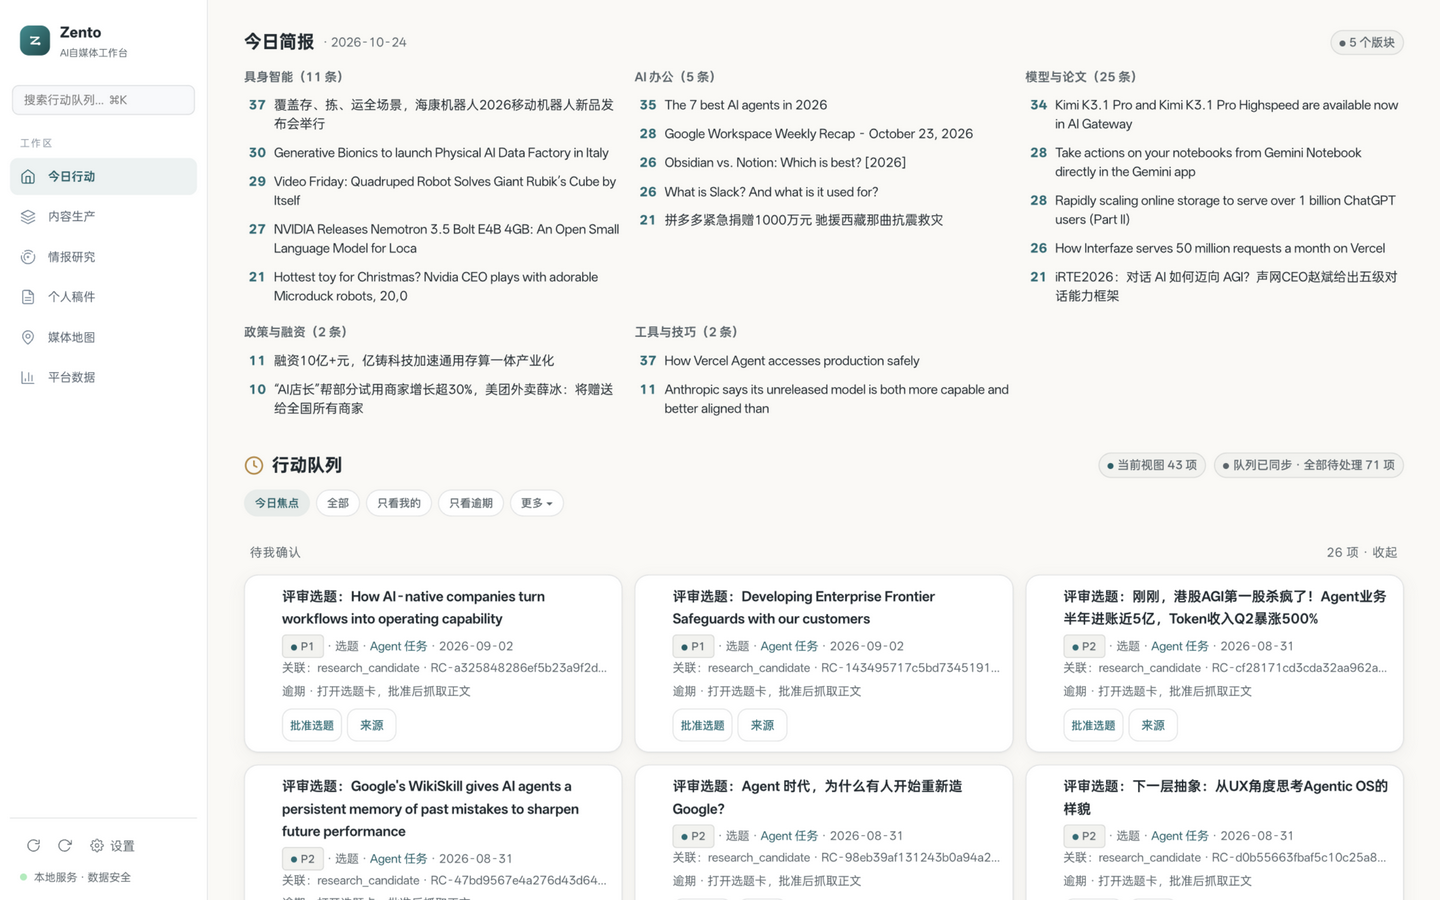
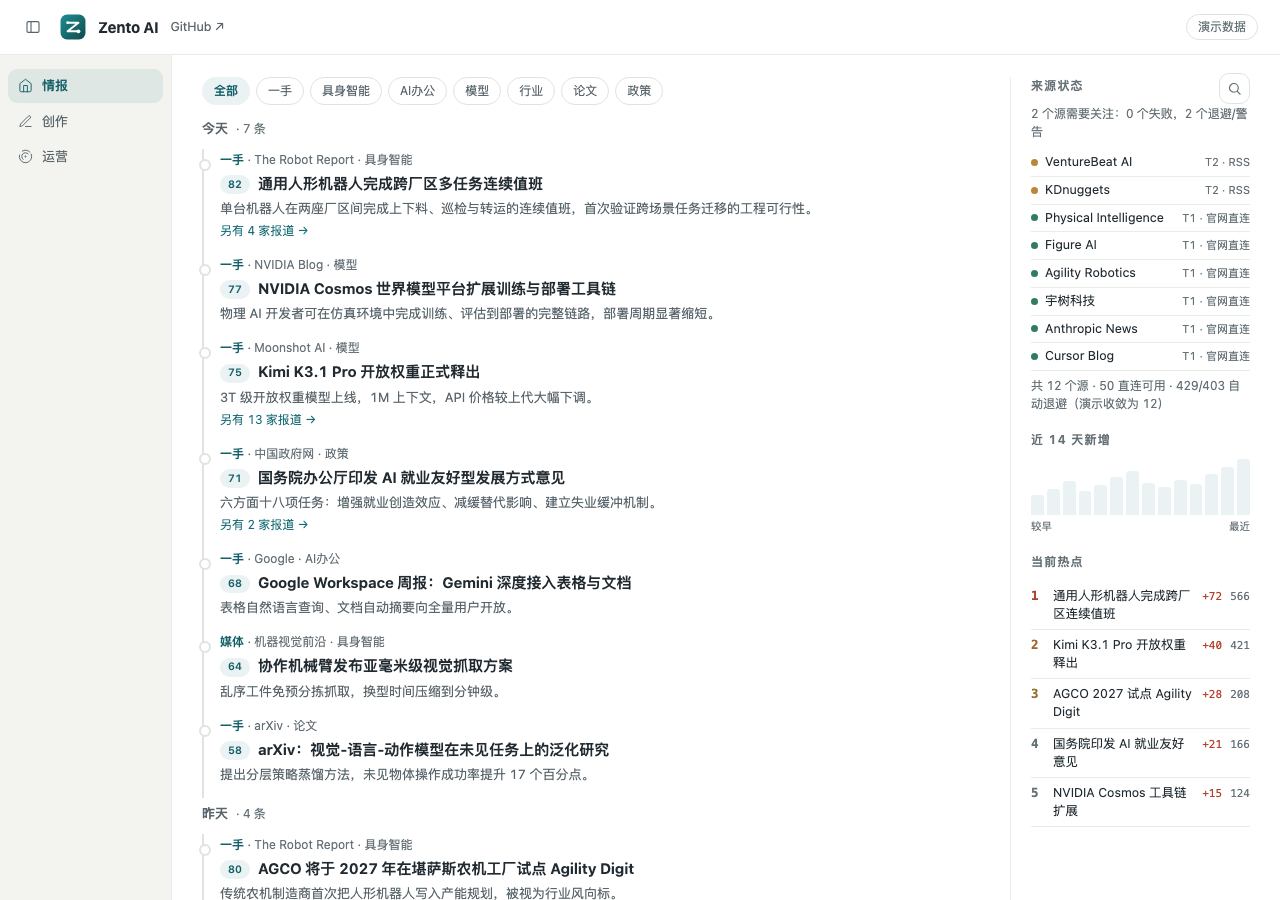
P3 demo 对齐冲刺：情报/运营两栏补齐 + 门禁 409 可玩 + 证据链弹层 + 换截图
- 情报栏：新增来源状态卡（健康点 + 需关注优先 + 分级标注，镜像真实
  情报页）与近 14 天新增趋势条；与既有分类 pills/同题聚合/热点榜
  构成完整 AIHOT 式 IA
- 运营栏：新增往期稿件区（mock 双平台汇总/阅读排序/复盘归因入口）
  + 媒体合作入口 + 导入平台数据按钮；CK 面板文案同步改「运营」
- 创作栏：排版步新增「无证据点发布 → 看 409」可玩切片（模拟真实
  POST /transition 的 409 响应与门禁详情——本项目最硬工程叙事的
  可触摸版）；订单卡「详情 · 证据链」从 toast 升级为真弹层
  （阶段轨迹/事实声明/缺证据标记/快照/门禁四项）
- 截图换新：旧 shot-home.png 是三栏重构前的六导航 UI，重截当前
  首页（1280 宽，系统字体 headless 截图）
- 实测：桌面 1280 + 移动 390 双视口零横向溢出、零控制台错误；
  源状态/趋势/稿件区/409 切片/证据链弹层全部渲染并通过交互

diff --git a/index.html b/index.html
@@ -77,6 +77,11 @@ a{color:var(--accent-ink)}
 .co-platform{font-size:11.5px;border:1px solid var(--line);border-radius:999px;padding:1px 8px;color:var(--ink-3)}
 .co-platform.done{border-color:transparent;background:rgba(47,125,92,.1);color:var(--success)}
 .co-actions{margin-top:10px;display:flex;gap:8px;flex-wrap:wrap}
+.co-dialog{border:1px solid var(--line);border-radius:16px;padding:20px 22px;max-width:560px;width:calc(100vw - 48px);box-shadow:0 12px 48px rgba(32,42,48,.18)}
+.co-dialog::backdrop{background:rgba(32,42,48,.32)}
+.co-claim{display:flex;justify-content:space-between;gap:12px;align-items:baseline;padding:7px 0;border-bottom:1px solid var(--line-soft);font-size:12.5px;line-height:1.5}
+.co-claim:last-child{border:none}
+.co-claim .ev{white-space:nowrap;font-size:12px;color:var(--accent-ink)}
 /* 卡片（队列/内容单/候选 统一质感）*/
 .qgrid{display:grid;grid-template-columns:repeat(auto-fill,minmax(330px,1fr));gap:10px}
 .qcard,.cand{background:var(--surface);border:1px solid var(--line-soft);border-radius:12px;padding:12px 16px;box-shadow:none;transition:all .16s ease-out;cursor:pointer}
@@ -140,6 +145,16 @@ dialog::backdrop{background:rgba(32,42,48,.35)}
 .fcluster{font-size:12px;color:var(--accent);margin-top:4px}
 .hotside{border-left:1px solid var(--line-soft);padding-left:20px}
 .hot-title{font-size:12px;font-weight:650;color:var(--ink-4);letter-spacing:.1em;margin-bottom:10px}
+.fmeta{font-size:12px;color:var(--ink-4)}
+.srcrow{display:flex;align-items:center;gap:7px;padding:4px 0;font-size:12.5px;border-bottom:1px solid var(--line-soft)}
+.srcrow:last-child{border:none}
+.srcrow .dot{width:7px;height:7px;border-radius:50%;flex:none}
+.srcrow .nm{flex:1;white-space:nowrap;overflow:hidden;text-overflow:ellipsis}
+.srcrow .st{font-size:11px;color:var(--ink-4);font-variant-numeric:tabular-nums}
+.bars{display:flex;align-items:flex-end;gap:3px;height:56px}
+.bars .bar{flex:1;background:var(--accent-soft);border-radius:3px 3px 0 0;position:relative;min-height:3px}
+.bars .bar:hover{background:var(--accent)}
+.legend{display:flex;justify-content:space-between;font-size:10.5px;color:var(--ink-4);margin-top:4px}
 .hrow{display:flex;gap:8px;align-items:baseline;padding:6px 0;border-bottom:1px solid var(--line-soft);font-size:12.5px;line-height:1.45}
 .hrow b{font-family:ui-monospace,Menlo,monospace;flex:none;width:14px}
 .hrow span{flex:1;color:var(--ink-2)}
@@ -217,7 +232,13 @@ kbd{border:1px solid var(--line);border-radius:5px;padding:0 5px;font-size:11px;
           <div id="feed"></div>
         </div>
         <aside class="hotside">
-          <div class="hot-title">当前热点</div>
+          <div class="hot-title">来源状态</div>
+          <div class="fmeta" style="margin-bottom:8px" id="srcHealthHint"></div>
+          <div id="srcList"></div>
+          <div class="hot-title" style="margin-top:18px">近 14 天新增</div>
+          <div class="bars" id="trendBars"></div>
+          <div class="legend"><span>较早</span><span>最近</span></div>
+          <div class="hot-title" style="margin-top:18px">当前热点</div>
           <div id="hotrank"></div>
         </aside>
       </div>
@@ -234,6 +255,17 @@ kbd{border:1px solid var(--line);border-radius:5px;padding:0 5px;font-size:11px;
       <div id="studio"></div>
     </section>
     <section class="view" id="v-intel">
+      <div class="vtitle" style="display:flex;justify-content:space-between;align-items:baseline;gap:12px;flex-wrap:wrap">
+        <span>往期稿件 <span style="font-weight:400;font-size:12.5px;color:var(--ink-4)">公众号 · 小红书 · 按阅读排序 · 复盘归因的数据底座</span></span>
+        <button class="btn" onclick="toast('演示：导入平台导出 CSV → 影子预览 → 确认写入')">导入平台数据</button>
+      </div>
+      <div class="pills" id="artPlats"></div>
+      <div id="artTotals" style="display:flex;gap:10px;margin-bottom:12px;flex-wrap:wrap"></div>
+      <div id="artList" style="display:grid;gap:8px;margin-bottom:26px"></div>
+      <div class="vtitle" style="display:flex;justify-content:space-between;align-items:baseline;gap:12px;flex-wrap:wrap">
+        <span>平台数据仪表盘</span>
+        <button class="btn" onclick="toast('演示：媒体合作与报价监测在真实系统的 media 页')">媒体合作 ↗</button>
+      </div>
       <div class="pills" id="platChips"></div>
       <div class="stats3" id="platStats"></div>
       <div class="card" style="padding:14px 16px;margin-bottom:12px"><svg id="spark" viewBox="0 0 560 120" style="width:100%;height:120px"></svg></div>
@@ -257,7 +289,7 @@ kbd{border:1px solid var(--line);border-radius:5px;padding:0 5px;font-size:11px;
 
 <script>
 /* ═══ 演示数据 ═══ */
-const NAVS = [['情报','home','v-home'],['创作','orders','v-orders'],['数据','intel','v-intel']];
+const NAVS = [['情报','home','v-home'],['创作','orders','v-orders'],['运营','intel','v-intel']];
 const esc = s => String(s ?? '').replace(/[&<>"]/g, c => ({'&':'&amp;','<':'&lt;','>':'&gt;','"':'&quot;'}[c]));
 const ICONS = {home:'<path d="m3 9 9-7 9 7v11a2 2 0 0 1-2 2H5a2 2 0 0 1-2-2z"/><polyline points="9 22 9 12 15 12 15 22"/>',
   orders:'<path d="M12 20h9"/><path d="M16.5 3.5a2.1 2.1 0 0 1 3 3L7 19l-4 1 1-4Z"/>',
@@ -359,8 +391,37 @@ function go(v, btn){
   document.querySelectorAll('.view').forEach(x => x.classList.toggle('on', x.id === v));
   document.querySelectorAll('.nav button').forEach(b => b.classList.toggle('on', b === btn));
   if (v === 'v-orders') { renderCoPipeline(); renderCoOrders(); renderStudio(); }
-  if (v === 'v-intel') renderPlat();
+  if (v === 'v-intel') { renderArticles(); renderPlat(); }
   toggleSide(false);
+}
+/* —— 情报栏：来源状态 + 14 天趋势（对齐真实情报页 IA，mock 数据）—— */
+const DEMO_SOURCES = [
+  ['Physical Intelligence', 'T1 · 官网直连', 'ok'], ['Figure AI', 'T1 · 官网直连', 'ok'],
+  ['Agility Robotics', 'T1 · 官网直连', 'ok'], ['宇树科技', 'T1 · 官网直连', 'ok'],
+  ['Anthropic News', 'T1 · 官网直连', 'ok'], ['Cursor Blog', 'T1 · 官网直连', 'ok'],
+  ['LangChain Blog', 'T1 · 官网直连', 'ok'], ['Cohere Blog', 'T1 · 官网直连', 'ok'],
+  ['The Robot Report', 'T2 · RSS', 'ok'], ['arXiv robotics', 'T1 · RSS', 'ok'],
+  ['VentureBeat AI', 'T2 · RSS', 'warn'], ['KDnuggets', 'T2 · RSS', 'warn'],
+];
+function renderSrcHealth(){
+  const hint = document.getElementById('srcHealthHint');
+  const list = document.getElementById('srcList');
+  if (!hint || !list) return;
+  const warn = DEMO_SOURCES.filter(s => s[2] !== 'ok');
+  hint.textContent = warn.length
+    ? `${warn.length} 个源需要关注：${DEMO_SOURCES.filter(s => s[2] === 'failed').length} 个失败，${warn.length} 个退避/警告`
+    : '当前启用源均无解析警告';
+  const shown = warn.concat(DEMO_SOURCES.filter(s => s[2] === 'ok')).slice(0, 8);
+  list.innerHTML = shown.map(([nm, tier, st]) =>
+    `<div class="srcrow"><span class="dot" style="background:${st === 'ok' ? 'var(--success)' : st === 'warn' ? 'var(--warning)' : 'var(--danger)'}"></span><span class="nm">${nm}</span><span class="st">${tier}</span></div>`).join('')
+    + `<div class="fmeta" style="padding:6px 0 0">共 12 个源 · 50 直连可用 · 429/403 自动退避（演示收敛为 12）</div>`;
+}
+function renderTrendBars(){
+  const el = document.getElementById('trendBars');
+  if (!el) return;
+  const counts = [18, 24, 31, 22, 28, 35, 41, 30, 26, 33, 29, 38, 44, 52];
+  const max = Math.max(...counts);
+  el.innerHTML = counts.map(c => `<div class="bar" style="height:${Math.max(3, Math.round(c / max * 100))}%" title="${c} 条"></div>`).join('');
 }
 /* —— 情报 feed —— */
 let feedCat = '全部';
@@ -419,6 +480,37 @@ function toast(msg){
   clearTimeout(toastTimer);
   toastTimer = setTimeout(() => { el.style.opacity = '0'; }, 2200);
 }
+/* —— 往期稿件（对齐真实系统运营栏：双平台汇总 + 阅读排序，mock）—— */
+const DEMO_ARTICLES = [
+  ['《机床边的下一班》', '公众号', '10-23', 4216, 312, true],
+  ['具身智能的交付之年', '知乎', '10-23', 3405, 267, true],
+  ['开放权重的分水岭', '公众号', '10-19', 3102, 208, true],
+  ['开放权重的分水岭', '知乎', '10-20', 2516, 154, true],
+  ['AI 办公的真瓶颈', '公众号', '10-15', 2845, 176, false],
+  ['具身智能数据工厂', '公众号', '10-11', 2317, 143, false],
+  ['协作机器人安全设计', '知乎', '10-14', 1662, 98, false],
+  ['世界模型是什么', '知乎', '10-08', 1337, 76, false],
+];
+let artPlat = '全部';
+function renderArticles(){
+  const chips = document.getElementById('artPlats');
+  if (!chips) return;
+  chips.innerHTML = ['全部', ...new Set(DEMO_ARTICLES.map(a => a[1]))].map(p =>
+    `<span class="pill${artPlat === p ? ' on' : ''}" onclick="artPlat='${p}';renderArticles()">${p}</span>`).join('');
+  const rows = DEMO_ARTICLES.filter(a => artPlat === '全部' || a[1] === artPlat)
+    .sort((a, b) => b[3] - a[3]);
+  const total = rows.reduce((s, a) => s + a[3], 0);
+  const inter = rows.reduce((s, a) => s + a[4], 0);
+  document.getElementById('artTotals').innerHTML = [
+    ['稿件数', rows.length + ' 篇'], ['总阅读', total.toLocaleString()], ['总互动', inter.toLocaleString()],
+  ].map(x => `<div class="stat3"><b>${x[1]}</b><span>${x[0]}</span></div>`).join('');
+  document.getElementById('artList').innerHTML = rows.map(a =>
+    `<div class="qcard" style="cursor:default"><div class="qmeta">${a[1]} · ${a[2]}${a[5] ? ' · <b>已进复盘归因</b>' : ''}</div>
+      <div style="display:flex;justify-content:space-between;align-items:baseline;gap:12px">
+        <div class="qtitle" style="flex:1">${a[0]}</div>
+        <span class="fmeta" style="font-variant-numeric:tabular-nums">阅读 ${a[3].toLocaleString()} · 互动 ${a[4]}</span>
+      </div></div>`).join('');
+}
 /* —— 内容单流水线（对齐真实系统）—— */
 function renderCoPipeline(){
   const counts = {}; CO_STAGES.forEach(s => counts[s] = 0);
@@ -443,7 +535,7 @@ function renderCoOrders(){
       <div class="qmeta" style="margin:4px 0 0">${plats} · ${o.human}</div>
       <div class="co-actions">
         ${next[0] ? `<button class="btn pri" onclick="coAdvance(${i},'${next[0]}')">${next[1]}</button>` : ''}
-        <button class="btn" onclick="toast('演示：阶段轨迹 / 证据链 / 门禁结果 / 工位卡')">详情 · 证据链</button>
+        <button class="btn" onclick="coDemoDetail(${i})">详情 · 证据链</button>
         <button class="btn" onclick="toast('演示：每条对外事实挂证据后才能过 A 段')">＋ 挂事实声明</button>
       </div>
     </div>`;
@@ -522,7 +614,60 @@ function renderStudio(){
       ${['A 事实核验','B 口径一致','C 语言审查','D 发布检查'].map(g => `<div class="gate pass"><b>${g[0]}</b>通过</div>`).join('')}
     </div>
     <div class="qdesc" style="margin:0 0 14px">四段门禁全过 → 待发布（真实系统中发布永远由人执行）</div>
+    <div class="station" style="margin-bottom:14px"><b>试试门禁的牙齿</b> · 真实系统里，无证据的事实声明过不了 A 段，发布接口直接返回 409——不是提示文案，是系统行为：
+      <div style="margin-top:8px;display:flex;gap:8px;flex-wrap:wrap">
+        <button class="btn" onclick="demoGate409()">无证据点发布 → 看 409</button>
+        <button class="btn" onclick="toast('演示：补挂证据后 A 段通过，才进入待发布')">补挂证据后发布</button>
+      </div>
+    </div>
     <div class="snav"><button class="btn" onclick="prevStep()">← 封面</button><button class="btn pri" onclick="toast('已加入待发布 · 三个必经人工点：批准/审稿/发布')">完成 · 待发布</button></div>`;
+}
+/* 内容单详情弹层（demo）：阶段轨迹 + 证据链 + 门禁——对齐真实系统 coDetail */
+function coDemoDetail(i){
+  const o = CO_ORDERS[i];
+  const claims = [
+    ['AGCO 将于 2027 年试点部署 Agility Digit', 'therobotreport.com', true, true],
+    ['国内首批百台交付落地 CNC 车间', '极客公园', true, true],
+    ['IEEE Spectrum：「别再拍视频，去找份工作」', 'spectrum.ieee.org', true, true],
+    ['某厂商良率提升 40%', '', false, false],
+  ];
+  const dlg = document.createElement('dialog');
+  dlg.className = 'co-dialog';
+  dlg.innerHTML = `<h3 style="margin:0 0 4px;font-size:15px">${esc(o.title)}</h3>
+    <div class="co-meta"><span class="co-badge">${o.stage}</span><span>${o.id}</span><span>${o.line}</span></div>
+    <div style="display:grid;gap:14px;margin-top:12px;font-size:12.5px">
+      <div><b style="font-size:13px">阶段轨迹</b>（只归档不删除，全程留痕）
+        <div class="fmeta" style="margin-top:4px;line-height:1.8">候选 10-24 09:12 → 已批准 10-24 09:40（人工点 1）→ 资料中 → 草稿中 → 门禁中 → 待审（等人工点 2）</div></div>
+      <div><b style="font-size:13px">事实声明与证据（A 段）—— ${claims.length} 条，<span style="color:var(--danger)">1 条缺证据</span></b>
+        <div style="margin-top:4px">${claims.map(c => `<div class="co-claim"><span>${c[0]}</span><span class="ev">${c[1] ? `证据 ↗` : '<span style="color:var(--danger)">缺证据</span>'}${c[3] ? ' 📎 已快照' : ''}</span></div>`).join('')}</div></div>
+      <div><b style="font-size:13px">最近门禁结果</b>
+        <div class="fmeta" style="margin-top:4px;line-height:1.8">A 事实核验：<b style="color:var(--danger)">未过</b>（1 条缺证据）· B 口径：<b style="color:var(--success)">通过</b> · C 语言：<b style="color:var(--success)">通过</b> · D 发布检查：<b style="color:var(--danger)">未过</b></div></div>
+      <div class="qdesc">证据快照 = 抓取时固化的正文（防链接失效/被改）；每条对外事实可溯源到知识库或快照，无证据无法过 A 段。</div>
+    </div>
+    <div style="display:flex;gap:8px;justify-content:flex-end;margin-top:12px">
+      <button class="btn" onclick="toast('演示：补挂证据 → 重跑门禁预检');this.closest('dialog').close()">补挂证据</button>
+      <button class="btn pri" onclick="this.closest('dialog').close()">关闭</button>
+    </div>`;
+  document.body.appendChild(dlg); dlg.showModal();
+  dlg.addEventListener('close', () => dlg.remove());
+}
+/* 门禁 409 可玩切片（demo）：模拟真实系统 POST /transition {action:"publish"} 的 409 响应 */
+function demoGate409(){
+  const dlg = document.createElement('dialog');
+  dlg.className = 'co-dialog';
+  dlg.innerHTML = `<h3 style="margin:0 0 4px;font-size:15px">发布被系统拦下</h3>
+    <div class="co-meta"><span class="co-badge gate-bad">HTTP 409</span><span>gate_check: publishable=false</span></div>
+    <div style="font-size:13px;line-height:1.9;margin-top:10px">
+      <div><b>A 事实核验 · 未过</b>——声明「国内首批百台交付落地 CNC 车间」缺少 http(s) 证据链接。每条对外事实必须挂证据，检索结果绝不直接进稿。</div>
+      <div style="margin-top:6px"><b>D 发布检查 · 未过</b>——证据链不齐时发布前置不满足。</div>
+      <div class="qdesc" style="margin-top:10px">真实系统行为：按钮不会变灰，但点击后接口返回 409 并附门禁详情——「门禁是系统行为，不是自觉」。补挂证据 → 重跑预检 → A/D 全过才放行。</div>
+    </div>
+    <div style="display:flex;gap:8px;justify-content:flex-end;margin-top:12px">
+      <button class="btn" onclick="toast('演示：已挂证据，A 段通过');this.closest('dialog').close()">去补证据</button>
+      <button class="btn pri" onclick="this.closest('dialog').close()">知道了</button>
+    </div>`;
+  document.body.appendChild(dlg); dlg.showModal();
+  dlg.addEventListener('close', () => dlg.remove());
 }
 function pickTopic(i){ studio.topic = i; renderStudio(); }
 function nextStep(){ studio.step = Math.min(4, studio.step+1); renderStudio(); }
@@ -547,14 +692,14 @@ function renderPlat(){
     d.rows.map(r => `<tr><td>${r[0]}</td><td>${r[1]}</td><td>${r[2]}</td><td>${r[3]}</td></tr>`).join('');
 }
 try { if (localStorage.getItem('zento_side') === 'narrow') document.querySelector('.shell').classList.add('narrow'); } catch(_){}
-renderFeed(); renderHot(); renderStudio(); renderPlat();
+renderFeed(); renderHot(); renderSrcHealth(); renderTrendBars(); renderArticles(); renderStudio(); renderPlat();
 
 const CK = {
   items: [], sel: 0,
   build(){ this.items = [
     {l:'情报 · 热点聚合', k:'导航', f:() => go('v-home', document.querySelectorAll('.nav button')[0])},
     {l:'创作 · 一站式工作台', k:'导航', f:() => go('v-orders', document.querySelectorAll('.nav button')[1])},
-    {l:'数据 · 平台后台', k:'导航', f:() => go('v-intel', document.querySelectorAll('.nav button')[2])},
+    {l:'运营 · 稿件与平台数据', k:'导航', f:() => go('v-intel', document.querySelectorAll('.nav button')[2])},
     {l:'同步数据', k:'动作', f:() => toast('演示：sync.py --once 同步 86 个分级信源')},
     {l:'新建内容单', k:'动作', f:() => { go('v-orders', document.querySelectorAll('.nav button')[1]); toast('演示：手工建单'); }},
     {l:'待审 · 《机床边的下一班》', k:'内容单', f:() => orderDetail('CO-20261024-003')},
@@ -587,7 +732,6 @@ document.addEventListener('click', e => {
 });
 document.getElementById('cki').addEventListener('input', () => { CK.sel = 0; CK.render(); });
 try { if (localStorage.getItem('zento_side') === 'narrow') document.querySelector('.shell').classList.add('narrow'); } catch(_){}
-renderFeed(); renderHot();
 </script>
 </body>
 </html>

diff --git a/README.md b/README.md
@@ -8,9 +8,9 @@ GitHub Pages 部署后访问：`https://<用户名>.github.io/<仓库名>/`
 
 **可以玩的部分**：
 
-- **情报**（主屏）：AIHOT 式聚合时间线——分类筛选（具身智能 / AI 办公 / 模型 / 政策…）、评分胶囊、同题多源聚合提示、当前热点榜
-- **创作**：内容单流水线——十阶段胶囊（候选→已批准→资料中→草稿中→门禁中→待审→待发→已发布→复盘中→归档）带计数与筛选，内容单卡显示阶段/门禁/双平台发布状态与下一动作；下方加工台五步走完 选题 → 证据 → 草稿 → 封面（自动生成）→ 排版（含四段门禁）；情报页点「去创作」直接带入
-- **数据**：平台后台管理——公众号/知乎切换、指标卡、14 天趋势、内容表现表
+- **情报**（主屏）：AIHOT 式聚合时间线——分类筛选、评分胶囊、同题多源聚合提示、当前热点榜；右侧来源状态（健康点 + 需关注优先）与近 14 天新增趋势
+- **创作**：内容单流水线——十阶段胶囊（候选→…→归档）带计数与筛选，内容单卡显示阶段/门禁/双平台发布状态与下一动作；「详情 · 证据链」看阶段轨迹/事实声明/快照/门禁结果；排版步可**亲手触发一次 409**（无证据发布被系统拦下——门禁是系统行为不是自觉）；下方加工台五步走完 选题 → 证据 → 草稿 → 封面（自动生成）→ 排版；情报页点「去创作」直接带入
+- **运营**：往期稿件（双平台汇总 / 阅读排序 / 复盘归因入口）+ 平台后台管理（公众号/知乎切换、指标卡、14 天趋势、内容表现表）+ 媒体合作入口
 - **⌘K / Ctrl+K / /** → 命令面板；顶栏按钮折叠侧栏（记忆状态）；移动端抽屉式导航
 
 ## 这个系统是什么
